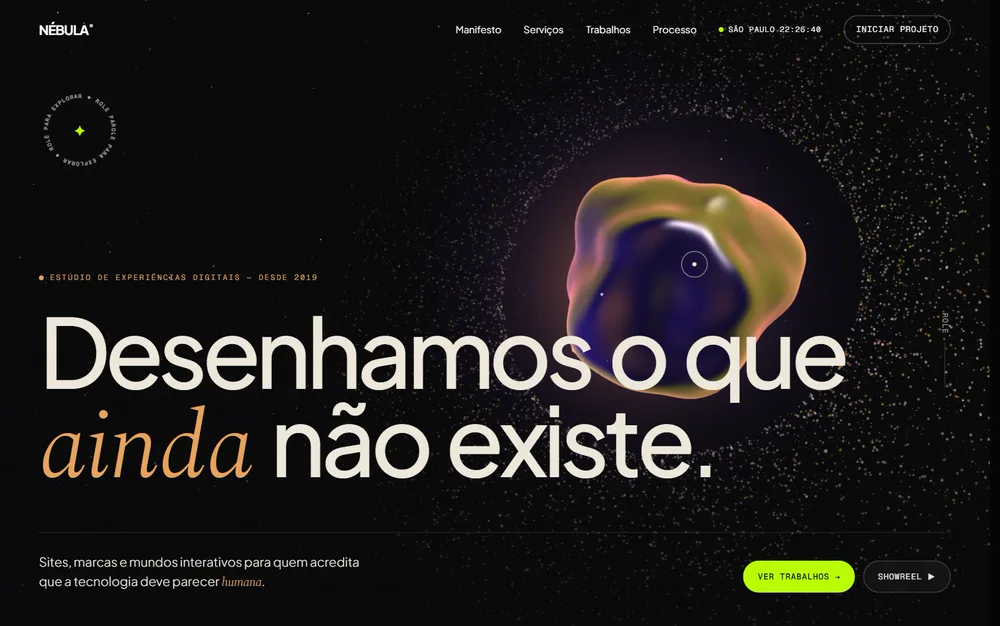
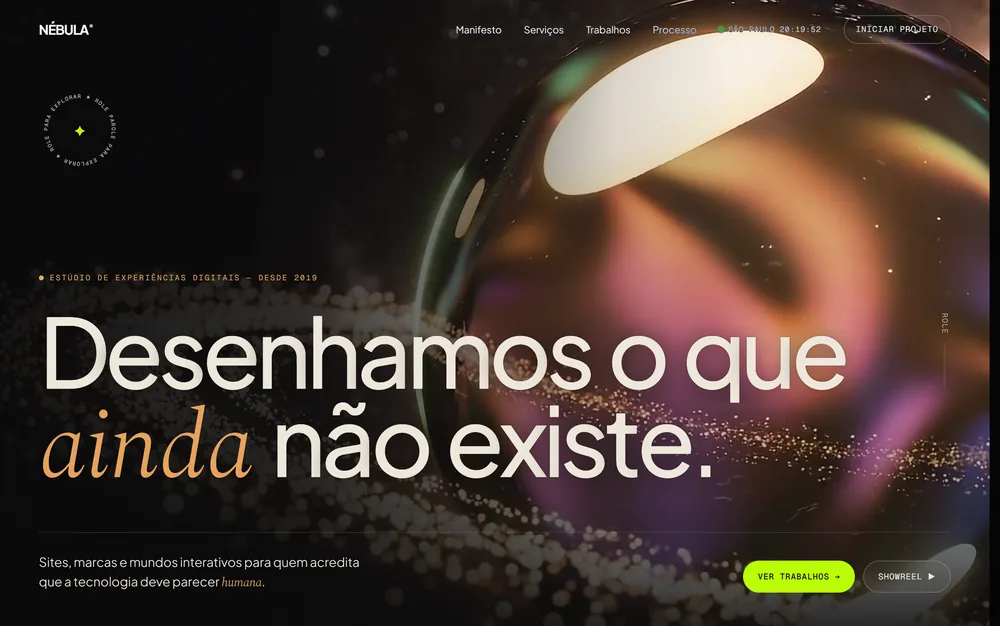
Atualiza o print do Nébula com o novo hero em vídeo

diff --git a/README.md b/README.md
@@ -16,7 +16,7 @@ Gosto de projetos que juntam design e engenharia: um site com cena 3D em WebGL, 
 <table>
   <tr>
     <td width="50%" valign="top">
-      <a href="https://nebulaproject-nu.vercel.app"><img src="assets/nebula.webp" alt="Abertura do site Nébula com o orbe 3D" width="100%"></a>
+      <a href="https://nebulaproject-nu.vercel.app"><img src="assets/nebula.webp" alt="Hero do site Nébula com o orbe de vidro e o anel de partículas" width="100%"></a>
       <h3>Nébula</h3>
       <p>Site de um estúdio fictício com <b>orbe de vidro líquido em WebGL</b>, 7 mil partículas em órbita e rolagem cinematográfica, sem nenhum framework.</p>
       <p><code>Three.js</code> <code>GSAP</code> <code>Lenis</code> <code>JavaScript</code></p>
